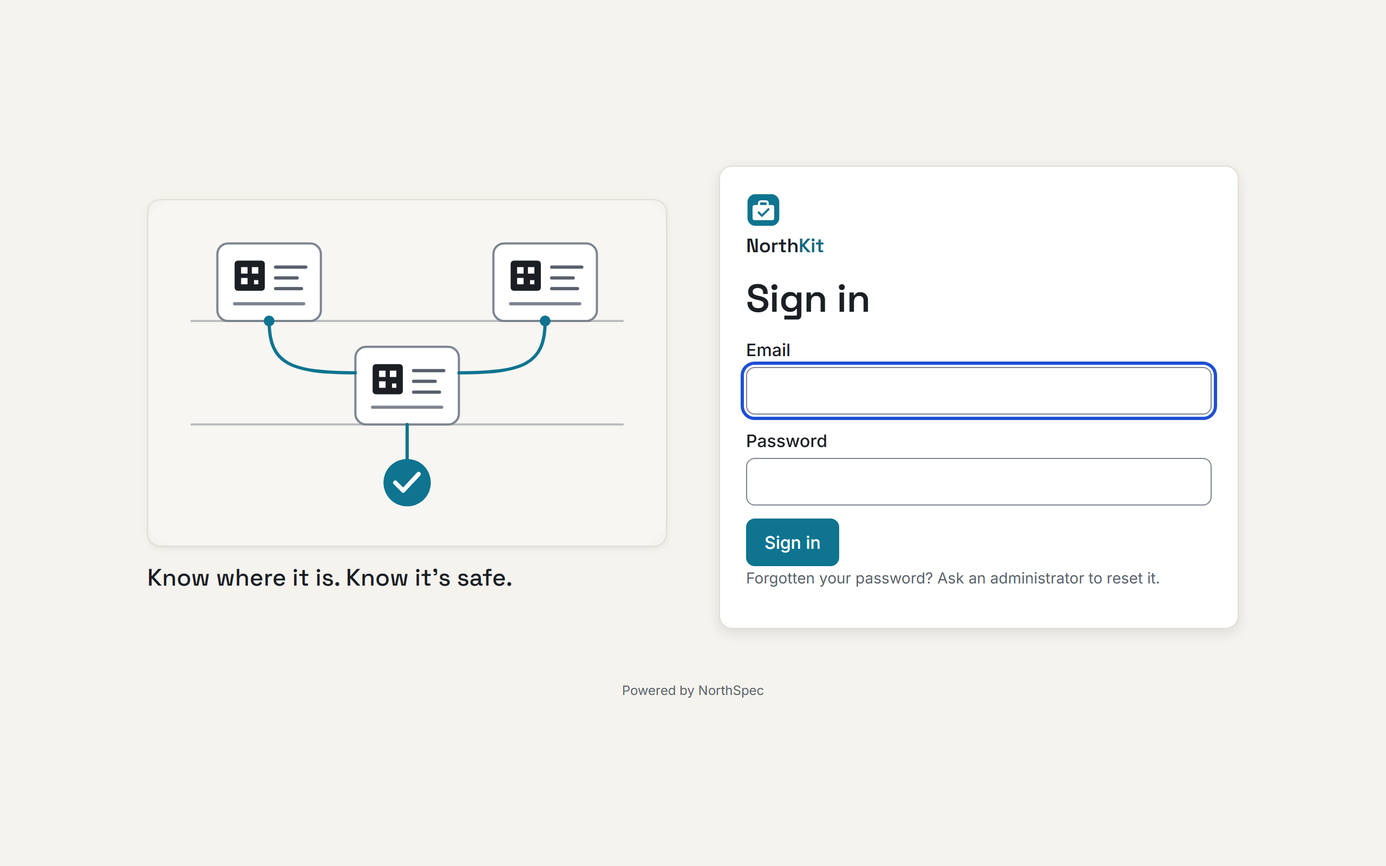
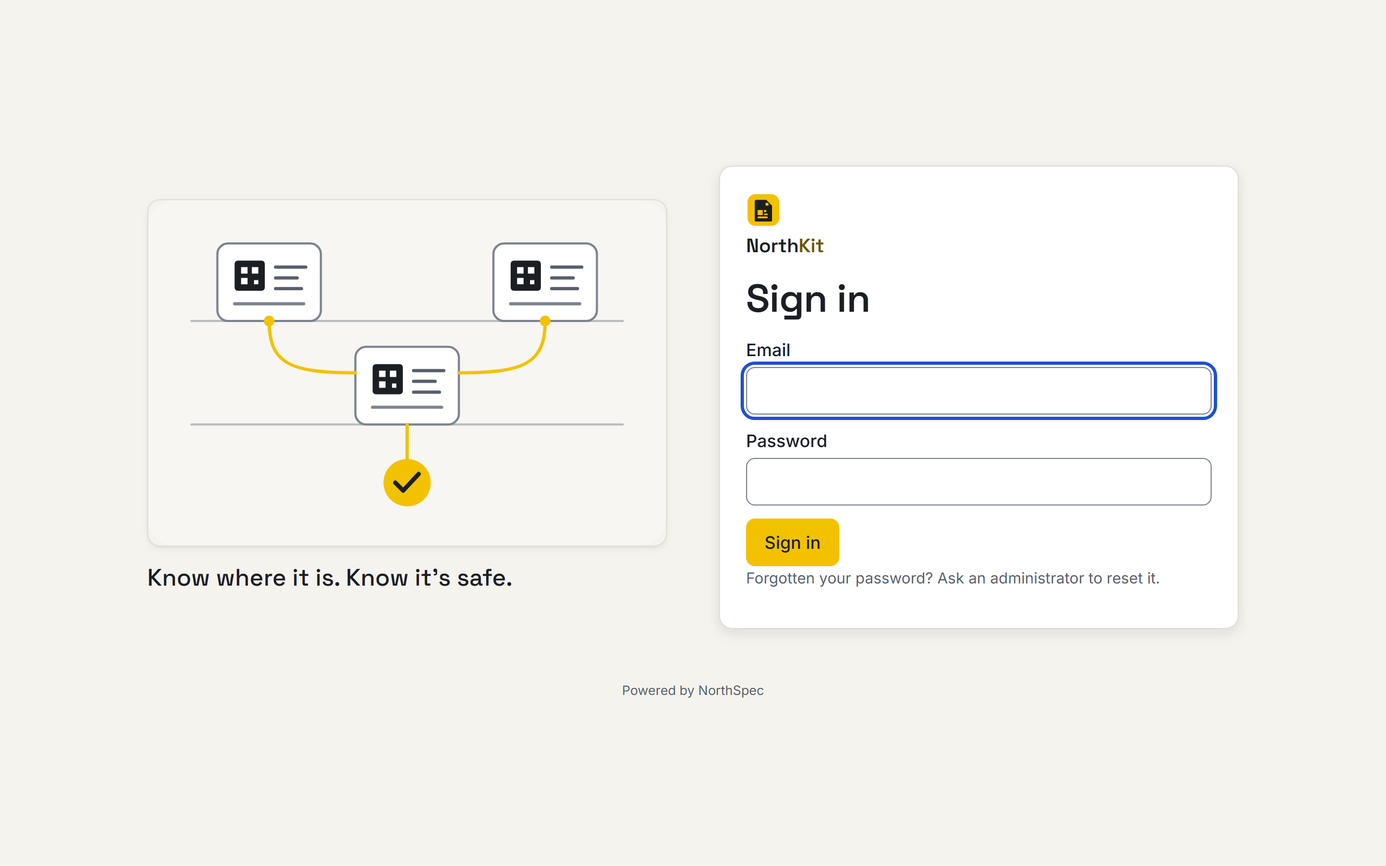
feat: brand release, NorthKit name confirmed, Hi-Vis Yellow accent and QR kit tag mark (K3, K9, K31)
Tokens, mark and icons from BrandCentre; Ink on the accent, Tag Brass as text.
Contrast and axe tests in light and dark; house-style screens retaken.

diff --git a/apps/web/test/contrast.test.ts b/apps/web/test/contrast.test.ts
@@ -1,0 +1,135 @@
+import { readFileSync } from 'node:fs';
+import path from 'node:path';
+import { describe, expect, it } from 'vitest';
+
+// The token contrast checks (WCAG 2.2 AA), run in CI so a change of accent can't ship a
+// pair that fails. It reads src/styles/tokens.css, resolves var() and color-mix(), and
+// checks the accent pairs and every status pair in light and dark. Hi-Vis Yellow is a
+// LIGHT accent, so the pairs that matter are Ink on yellow, Tag Brass as text, and yellow
+// itself against the dark page. The studio's own script (northspec-standards
+// scripts/contrast-check.js) checks the same file and is run by hand.
+
+const css = readFileSync(
+  path.join(import.meta.dirname, '..', 'src', 'styles', 'tokens.css'),
+  'utf8',
+).replace(/\/\*[\s\S]*?\*\//g, '');
+
+function declarations(block: string): Record<string, string> {
+  const out: Record<string, string> = {};
+  for (const m of block.matchAll(/(--[\w-]+)\s*:\s*([^;]+);/g)) out[m[1]!] = m[2]!.trim();
+  return out;
+}
+
+const lightBlock = /^:root\s*\{([\s\S]*?)\n\}/m.exec(css)![1]!;
+const darkBlock = /prefers-color-scheme:\s*dark\)\s*\{\s*:root[^{]*\{([\s\S]*?)\}/.exec(css)![1]!;
+const light = declarations(lightBlock);
+const dark = { ...light, ...declarations(darkBlock) };
+
+type Rgb = [number, number, number];
+
+function colour(value: string, vars: Record<string, string>, depth = 0): Rgb {
+  if (depth > 20) throw new Error(`var loop: ${value}`);
+  const v = value.trim();
+  const ref = /^var\((--[\w-]+)\)$/.exec(v);
+  if (ref) return colour(vars[ref[1]!]!, vars, depth + 1);
+  const hex = /^#([0-9a-f]{3}|[0-9a-f]{6})$/i.exec(v);
+  if (hex) {
+    const h = hex[1]!.length === 3 ? [...hex[1]!].map((c) => c + c).join('') : hex[1]!;
+    return [parseInt(h.slice(0, 2), 16), parseInt(h.slice(2, 4), 16), parseInt(h.slice(4, 6), 16)];
+  }
+  if (v === 'black') return [0, 0, 0];
+  if (v === 'white') return [255, 255, 255];
+  const mix = /^color-mix\(in srgb,\s*(.+?)\s+(\d+(?:\.\d+)?)%,\s*(.+)\)$/.exec(v);
+  if (mix) {
+    const a = colour(mix[1]!, vars, depth + 1);
+    const b = colour(mix[3]!, vars, depth + 1);
+    const p = Number(mix[2]) / 100;
+    return a.map((x, i) => Math.round(x * p + b[i]! * (1 - p))) as Rgb;
+  }
+  throw new Error(`can't read colour: ${value}`);
+}
+
+const channel = (c: number) => {
+  const s = c / 255;
+  return s <= 0.03928 ? s / 12.92 : ((s + 0.055) / 1.055) ** 2.4;
+};
+const luminance = ([r, g, b]: Rgb) =>
+  0.2126 * channel(r) + 0.7152 * channel(g) + 0.0722 * channel(b);
+function ratio(fg: Rgb, bg: Rgb): number {
+  const [hi, lo] = [luminance(fg), luminance(bg)].sort((a, b) => b - a) as [number, number];
+  return (hi + 0.05) / (lo + 0.05);
+}
+
+const check = (theme: Record<string, string>, fg: string, bg: string) =>
+  ratio(colour(fg, theme), colour(bg, theme));
+
+describe('accent pairs (light)', () => {
+  it('puts Ink, never white, on the Hi-Vis Yellow fill', () => {
+    expect(light['--colour-on-accent']).toBe('#1b1f24');
+    expect(check(light, 'var(--colour-on-accent)', 'var(--accent)')).toBeGreaterThanOrEqual(9.5);
+    expect(check(light, 'var(--colour-on-accent)', 'var(--accent-hover)')).toBeGreaterThanOrEqual(
+      4.5,
+    );
+  });
+
+  it('uses Tag Brass for the accent as text, on Paper, white and Tag Cream', () => {
+    for (const bg of ['var(--colour-bg)', 'var(--colour-card)', 'var(--accent-weak)'])
+      expect(check(light, 'var(--accent-text)', bg), bg).toBeGreaterThanOrEqual(4.5);
+  });
+
+  it('does not use the yellow itself as text on a light surface', () => {
+    // It would fail: this documents why --accent-text exists.
+    expect(check(light, 'var(--accent)', 'var(--colour-card)')).toBeLessThan(3);
+  });
+
+  it('keeps the active-nav bar visible on the Ink sidebar', () => {
+    expect(check(light, 'var(--accent-on-dark)', 'var(--sidebar-active)')).toBeGreaterThanOrEqual(
+      3,
+    );
+    expect(check(light, 'var(--accent-on-dark)', 'var(--sidebar-bg)')).toBeGreaterThanOrEqual(3);
+  });
+});
+
+describe('accent pairs (dark)', () => {
+  it('keeps yellow readable as text on the Deep Navy page, cards and tints', () => {
+    for (const bg of ['var(--colour-bg)', 'var(--colour-card)', 'var(--accent-weak)'])
+      expect(check(dark, 'var(--accent-text)', bg), bg).toBeGreaterThanOrEqual(4.5);
+  });
+
+  it('still puts Ink on the yellow fill', () => {
+    expect(check(dark, 'var(--colour-on-accent)', 'var(--accent)')).toBeGreaterThanOrEqual(9.5);
+  });
+});
+
+describe('text and statuses', () => {
+  for (const [name, theme] of [
+    ['light', light],
+    ['dark', dark],
+  ] as const) {
+    it(`meets AA for text on the page, cards and surfaces in ${name}`, () => {
+      for (const bg of ['var(--colour-bg)', 'var(--colour-card)', 'var(--colour-surface)']) {
+        expect(check(theme, 'var(--colour-text)', bg), `text on ${bg}`).toBeGreaterThanOrEqual(4.5);
+        expect(
+          check(theme, 'var(--colour-text-muted)', bg),
+          `muted on ${bg}`,
+        ).toBeGreaterThanOrEqual(4.5);
+      }
+    });
+
+    it(`meets AA for every status pill in ${name}`, () => {
+      const pairs = Object.keys(theme)
+        .filter((k) => /^--status-.+-text$/.test(k))
+        .map((k) => [k, k.replace(/-text$/, '-bg')] as const);
+      expect(pairs.length).toBeGreaterThanOrEqual(6);
+      for (const [fg, bg] of pairs)
+        expect(check(theme, `var(${fg})`, `var(${bg})`), `${fg} on ${bg}`).toBeGreaterThanOrEqual(
+          4.5,
+        );
+    });
+
+    it(`meets AA for the success, warning, danger and info messages in ${name}`, () => {
+      for (const m of ['--colour-success', '--colour-warning', '--colour-danger', '--colour-info'])
+        expect(check(theme, `var(${m})`, 'var(--colour-card)'), m).toBeGreaterThanOrEqual(4.5);
+    });
+  }
+});

diff --git a/apps/web/src/styles/tokens.css b/apps/web/src/styles/tokens.css
@@ -1,7 +1,7 @@
 /* NorthSpec design tokens: the single source of colour, type, radius and spacing.
    Token names and shared values follow the family house style as NorthSlot uses it
    (northspec-standards brand/tokens/tokens.css; S7-11, Chris, 15 Nov 2026). NorthKit
-   overrides only its accent family (Kit Teal, Teal Mist, Kit Teal Light) and adds its own
+   overrides only its accent family (Hi-Vis Yellow, Tag Brass, Tag Cream) and adds its own
    status set. Never hard-code a colour, size or spacing value in app.css that isn't one
    of these. */
 
@@ -13,15 +13,17 @@
   --northspec-paper: #f5f3ee; /* Paper: the page */
   --northspec-navy: #18224a; /* Deep Navy: the page in dark mode */
 
-  /* ---- Product accent: NorthKit (brand/tokens/accent.css) ---- */
-  --accent: #0e7490; /* Kit Teal, 5.4:1 on white */
+  /* ---- Product accent: NorthKit, from BrandCentre northkit/tokens/accent.css ----
+     Hi-Vis Yellow is a LIGHT accent: text and icons on it are Ink, never white. Anything
+     that sits on an --accent fill must use --colour-on-accent. Never use the accent itself
+     as text on Paper or white: that is --accent-text (Tag Brass). */
+  --accent: #f2c200; /* Hi-Vis Yellow: buttons, active nav, mark */
   --accent-hover: color-mix(in srgb, var(--accent) 85%, black);
-  --accent-weak: #e3f2f6; /* Teal Mist: selected rows, chips, the current filter */
-  --accent-light: #7fd0e3; /* Kit Teal Light: marks on the Ink sidebar and in dark mode */
-  --colour-on-accent: #ffffff; /* text and icons on an --accent fill (primary buttons) */
-  /* Accent used AS text: a touch darker, so it keeps 4.5:1 on Teal Mist (6.9:1). */
-  --accent-text: color-mix(in srgb, var(--accent) 90%, black);
-  /* The active-nav bar on the Ink sidebar: Kit Teal Light keeps 3:1 on --sidebar-active. */
+  --accent-weak: #fdf3c4; /* Tag Cream: selected rows, chips, the current filter */
+  --accent-light: #f2c200; /* dark mode and the Ink sidebar: 9.14:1 on Deep Navy */
+  --colour-on-accent: #1b1f24; /* Ink on yellow, 9.85:1 */
+  --accent-text: #6b5600; /* Tag Brass: the accent as text, 6.41:1 on Paper */
+  /* The active-nav bar on the Ink sidebar. */
   --accent-on-dark: var(--accent-light);
 
   /* The accent is for primary buttons, the active nav item and selected things only.
@@ -135,8 +137,8 @@
     --colour-text-muted: #b4bcd0;
     --colour-skeleton: #2c3870;
     --colour-focus: #9db7ff;
-    --accent-weak: color-mix(in srgb, var(--accent) 35%, #18224a);
-    /* Kit Teal Light as text on navy keeps 4.5:1. */
+    --accent-weak: color-mix(in srgb, var(--accent) 20%, #18224a);
+    /* Hi-Vis Yellow as text on navy keeps 4.5:1 (9.14:1). */
     --accent-text: var(--accent-light);
     --sidebar-bg: #10173a;
     --sidebar-muted: #a7b0c8;

diff --git a/apps/web/e2e/themes.spec.ts b/apps/web/e2e/themes.spec.ts
@@ -1,0 +1,54 @@
+import { expect, test } from '@playwright/test';
+import { expectAccessible, expectNoSideways, ready } from './helpers';
+
+// The brand release (K9, K31): Hi-Vis Yellow is a light accent with Ink text on it. Axe
+// (WCAG 2.2 AA, including colour contrast) runs on the main screens in BOTH colour schemes
+// at both sizes, and the primary button really is Ink on yellow.
+
+for (const scheme of ['light', 'dark'] as const) {
+  test(`the main screens pass axe in ${scheme} mode`, async ({ page }) => {
+    await page.emulateMedia({ colorScheme: scheme });
+    for (const path of [
+      '/',
+      '/items',
+      '/items/new',
+      '/kinds',
+      '/import',
+      '/sites',
+      '/users',
+      '/settings',
+    ]) {
+      await page.goto(path);
+      await expect(page.getByRole('heading', { level: 1 })).toBeVisible();
+      await ready(page);
+      await expectNoSideways(page);
+      await expectAccessible(page);
+    }
+  });
+}
+
+test('the primary button is Ink on Hi-Vis Yellow, never white', async ({ page }) => {
+  await page.emulateMedia({ colorScheme: 'light' });
+  await page.goto('/items');
+  const button = page.getByRole('link', { name: 'Add an item' });
+  const style = await button.evaluate((el) => {
+    const s = getComputedStyle(el);
+    return { color: s.color, background: s.backgroundColor };
+  });
+  expect(style).toEqual({ color: 'rgb(27, 31, 36)', background: 'rgb(242, 194, 0)' });
+});
+
+test('the sign-in page and the scan page pass axe in dark mode', async ({ browser }) => {
+  const context = await browser.newContext({
+    storageState: { cookies: [], origins: [] },
+    colorScheme: 'dark',
+  });
+  const page = await context.newPage();
+  await page.goto('/login');
+  await ready(page);
+  await expectAccessible(page);
+  await page.goto('/i/not-a-real-label');
+  await expect(page.getByRole('heading', { level: 1 })).toHaveText('Label not recognised');
+  await expectAccessible(page);
+  await context.close();
+});

diff --git a/apps/web/src/app/manifest.ts b/apps/web/src/app/manifest.ts
@@ -3,7 +3,7 @@ import { PRODUCT_NAME } from '@northkit/core';
 
 // Installable on phones as a PWA (the offline inspection runner arrives in Sprint 3).
 // A manifest can't read CSS variables: the colours mirror --colour-bg and --accent in
-// src/styles/tokens.css (Kit Teal). Icons are copied from brand/png (BrandCentre).
+// src/styles/tokens.css (Hi-Vis Yellow). The icons are made from the BrandCentre mark (northkit/logo).
 export default function manifest(): MetadataRoute.Manifest {
   return {
     name: PRODUCT_NAME,
@@ -13,7 +13,7 @@ export default function manifest(): MetadataRoute.Manifest {
     display: 'standalone',
     orientation: 'portrait',
     background_color: '#F5F3EE',
-    theme_color: '#0e7490',
+    theme_color: '#f2c200',
     icons: [
       { src: '/icon.svg', sizes: 'any', type: 'image/svg+xml', purpose: 'any' },
       { src: '/icon-192.png', sizes: '192x192', type: 'image/png', purpose: 'any' },

diff --git a/apps/web/src/components/product-mark.tsx b/apps/web/src/components/product-mark.tsx
@@ -1,9 +1,9 @@
 /**
  * The identity (house style, as NorthSlot): the NorthKit mark and wordmark ("North" then
- * "Kit" in Kit Teal, Kit Teal Light on the Ink sidebar), with the customer's organisation
+ * "Kit" in Tag Brass, Hi-Vis Yellow on the Ink sidebar), with the customer's organisation
  * name under it once set-up names it. The mark is decorative: the text beside it says what
- * it is. A plain <img>: an SVG gains nothing from next/image. The mark, wordmark and accent
- * are placeholders until BrandCentre chooses them (name check first).
+ * it is. A plain <img>: an SVG gains nothing from next/image. The mark is the BrandCentre
+ * QR kit tag (northkit/logo), and the colours come from the accent tokens.
  */
 export function ProductMark({ organisation }: { organisation?: string | null }) {
   return (

diff --git a/packages/core/src/dev/demo-photos.ts b/packages/core/src/dev/demo-photos.ts
@@ -2,7 +2,7 @@ import { createHash } from 'node:crypto';
 import { PNG } from 'pngjs';
 
 // Placeholder photos for the demo company (S2-6): drawn here in the style of the sign-in
-// picture (a tagged item card on a plain ground, in ink, slate and a teal accent), so the
+// picture (a tagged item card on a plain ground, in ink, slate and Hi-Vis Yellow), so the
 // demo has no stock photos and nothing that looks like a real person, site or product. The
 // same tag always gives the same picture. Demo only: customers upload their own photos.
 
@@ -16,7 +16,7 @@ const SLATE: Rgb = [87, 95, 107];
 const EDGE: Rgb = [200, 196, 186];
 
 const KIND_BAND: Record<string, Rgb> = {
-  ladder: [14, 116, 144],
+  ladder: [242, 194, 0],
   plant: [180, 83, 9],
   power_tool: [59, 91, 219],
   harness: [134, 49, 138],

diff --git a/apps/web/src/styles/app.css b/apps/web/src/styles/app.css
@@ -176,7 +176,7 @@ a:hover {
   background: var(--sidebar-active);
   color: var(--sidebar-text);
 }
-/* The current page: weight, a fill and a Kit Teal Light bar, so the bar is never the
+/* The current page: weight, a fill and a Hi-Vis Yellow bar, so the bar is never the
    only cue (and aria-current for screen readers). */
 .sidebar .nav-list a[aria-current='page'] {
   background: var(--sidebar-active);
@@ -2369,7 +2369,7 @@ a.mx-cell:focus-visible {
   }
 }
 
-/* Selected rows and the current choice: Teal Mist, with a teal bar as a second cue. */
+/* Selected rows and the current choice: Tag Cream, with a yellow bar as a second cue. */
 .table tr[aria-current='true'] td,
 .table tr[aria-selected='true'] td {
   background: var(--accent-weak);

diff --git a/docs/01-status-and-gates.md b/docs/01-status-and-gates.md
@@ -10,14 +10,15 @@ Format as NorthKeep's D-numbers. "Proposed (built), Chris to confirm" means it i
 | --- | --- | --- | --- |
 | K1 | Build the idea | Build ahead of validation | **Approved** (Chris, 17 Nov 2026): product five, banner Construction & Trades (also fits Facilities & Compliance) |
 | K2 | Route and stack | Route A, same stack as NorthKeep (ADR 0001) | **Approved** (Chris, 17 Nov 2026) |
-| K3 | Name | NorthKit is a working name | **Working name.** UK IPO (classes 9 and 42), Companies House and domain checks before anything public; no website page until Chris confirms |
+| K3 | Name | NorthKit is the product name | **Confirmed** (Chris, 17 Nov 2026): UK IPO (classes 9 and 42) and Companies House clear (nearest: NORTH IT, NORTHTEK, NORTH KITCHEN LTD). The domain northkit.co.uk is available at GoDaddy and **not bought yet** (Chris's action). No website page until Chris says |
 | K4 | Foundation source | Copy from NorthKeep `main`, record the commit (ADR 0002) | **Done:** `944121d`; NorthKeep's unmerged `sprint-8/release` was not used |
 | K5 | The boundary | NorthKit records inspections and certificates; it never performs, certifies or signs off a statutory examination (ADR 0003) | **Approved** (Chris, 17 Nov 2026, in the brief) |
 | K6 | Version 1 scope | As the brief: items and kinds, labels, check-out and in, safe to use with quarantine, imports and exports, dashboard and reports, offline; out: GPS and Bluetooth trackers, hire-out invoicing, purchase orders, depreciation | **Approved** (Chris, 17 Nov 2026) |
 | K7 | Licence | Per-product Ed25519 key pair, 30-day trial then read-only (ADR 0005). The key list is empty until Chris makes the pair | **Approved** (Chris, 17 Nov 2026, standard 09). **Action for Chris:** make the key pair before the first release candidate |
 | K8 | Gate 1 (three buyer conversations, one written commitment) | Optional; Chris may lift it as for ClearRate | **Open.** Not a blocker. Guide: `docs/research/buyer-guide.md` |
-| K9 | Accent colour | Kit Teal `#0E7490`, a **placeholder** that avoids Core Blue, Dock Amber, Rate Green and Keep Plum. Mark, wordmark and sign-in picture are also placeholders | **Approved as placeholders** (Chris, 17 Nov 2026), **except the accent: Kit Teal is too close to Rate Green `#157A55`** (the reason NorthSlot moved to Dock Amber). Kept as a placeholder, **to be replaced from BrandCentre** |
-| K10 | Sign-in tagline | "Know where it is. Know it's safe." (placeholder) | **Approved** (Chris, 17 Nov 2026) |
+| K9 | Accent colour and mark | Hi-Vis Yellow `#F2C200` with the QR kit tag mark, from BrandCentre `northkit/`. A **light** accent: Ink text on it (9.85:1), never white; Tag Brass `#6B5600` for the accent as text, Tag Cream `#FDF3C4` for tints, yellow stays the same in dark mode (9.14:1 on Deep Navy) | **Approved** (Chris, 18 Nov 2026), replacing Kit Teal, which was too close to Rate Green. Tokens copied from `BrandCentre
+orthkit	okensaccent.css`; icons made from the mark; the illustrations follow the tokens |
+| K10 | Sign-in tagline | "Know where it is. Know it's safe." | **Approved** (Chris, 17 Nov 2026); also the tagline in the BrandCentre guide |
 | K11 | Roles and permission areas | Administrator, Kit Manager, Supervisor, Operative (check out and in and pre-use checks only), Viewer; areas overview, locations, items, check-outs, inspections, imports, reports, users, settings × View, Create, Edit, Approve | **Approved** (Chris, 17 Nov 2026) |
 | K12 | Depots and locations | A "site" is a depot; locations are site (job site), van, store, yard, nestable, with an optional reference (a registration or job number). Depots are managed by people with Settings access | **Approved** (Chris, 17 Nov 2026) |
 | K13 | Reporting login | `northkit_readonly` reads the `reporting` views only, from the first migration (NorthKeep got there in its Sprint 7) | **Approved** (Chris, 17 Nov 2026) |
@@ -38,6 +39,7 @@ Format as NorthKeep's D-numbers. "Proposed (built), Chris to confirm" means it i
 | K28 | Illustrations | The pack (sign-in, empty register, no results, all clear, error) is drawn **inline in SVG using only design tokens**, not as light and dark files, so dark mode and a new accent follow the tokens with nothing to redraw. A test fails on any hard-coded colour outside `tokens.css` (the browser theme colour and the manifest are listed exceptions) | **Proposed (built), Chris to confirm** |
 | K29 | Kind rules: what the defaults say | Each kind ships with editable rules, each with a note saying who should confirm it. LOLER 6 months for lifting gear (12 for other kit, marked not required unless it applies), ladders and access equipment 6 months (HSE sets no period: said so), harness 6 months **as industry practice, not an HSE rule**, PAT 12 months marked risk-based, calibration 12 months. Every screen shows the notice "your own schedule settings, not legal advice" | **Proposed (built), Chris to confirm** |
 | K30 | Side-by-side check with NorthSlot | NorthKit's screens at both sizes and themes are in `docs/screens/house-style-check/`, with NorthSlot's public sign-in. NorthSlot's signed-in screens need a login that Claude doesn't have; **Chris runs `house-style-check.mjs` once with his own** (`docs/screens/README.md`) | **Open: Chris to run it** |
+| K31 | Brand release | `chore/brand-and-name`: the BrandCentre tokens, mark, app icon, favicons and PNG icons (192, 512, maskable, apple-touch, 32) replace the placeholders; "working name" is gone from the repo; the demo photos and every illustration follow the tokens. Token contrast checked with the standards script (exit 0) and a test; axe passes at both sizes in light and dark | **Proposed (built), Chris to confirm** |
 
 ## Gates
 

diff --git a/CLAUDE.md b/CLAUDE.md
@@ -1,6 +1,6 @@
 # CLAUDE.md — instructions for Claude Code in this repo
 
-You are the lead developer for NorthKit (working name), a self-hosted plant, tool and equipment register for contractors, maintenance firms, plant hire depots and manufacturers: where each item is, who has it, and whether it is safe and in date to use. Chris Ramsden owns NorthSpec and approves every merge.
+You are the lead developer for NorthKit, a self-hosted plant, tool and equipment register for contractors, maintenance firms, plant hire depots and manufacturers: where each item is, who has it, and whether it is safe and in date to use. Chris Ramsden owns NorthSpec and approves every merge.
 
 ## Build status
 **Approved to build (Chris, 17 Nov 2026), ahead of validation**, as with NorthKeep and ClearRate. Gate 0 passed; decisions K1 onwards are recorded in `docs/01-status-and-gates.md`. Sprint 0 (research, `prompts/sprint-0.md`) and Sprint 1 (foundation, `prompts/sprint-1.md`) come first; Sprints 2 to 6 are in `prompts/roadmap.md`. Gate 1 (buyer conversations) is optional and not a blocker.
@@ -24,9 +24,9 @@ You are the lead developer for NorthKit (working name), a self-hosted plant, too
 - **Database.** DB-01 to DB-16 (`docs/03-database-requirements.md`): one Postgres schema per module, snake_case plural tables, UUIDv7 ids, standard columns, constraints in the database, `COMMENT` on every table and column, forward-only SQL migrations.
 - **Security.** Argon2id passwords, TOTP MFA (required for Administrators), parameterised queries only, secrets from env vars only, no secrets in logs, no passwords, tokens or keys in the repo, docs or chat. OWASP ASVS L1. Public endpoints (the no-login "report a fault" scan page, from Sprint 5) are signed, rate-limited and logged.
 - **Dependencies.** MIT, MIT-0, Apache-2.0, BSD, ISC, PostgreSQL, 0BSD or Zlib; the same conditional exceptions as NorthKeep (CC-BY-4.0 data only, MPL-2.0 and BlueOak build tools only, OFL-1.1 font files only). No GPL/AGPL/LGPL in shipped code; MinIO and sharp stay out. Record each in `docs/dependencies.md`.
-- **UI.** The NorthSpec visual standard (`C:\Northspec\repos\northspec-visual-standard.md`): hand-written CSS on NorthSpec tokens, NorthSlot is the reference (Ink sidebar on the left, Paper pages, white cards, 4 KPI cards, a wide table beside a "needs action" panel). The product accent is **Kit Teal `#0E7490`, a placeholder** until BrandCentre chooses one; it must not clash with Core Blue, Dock Amber, Rate Green or Keep Plum. Inter for everything you read; Space Grotesk for page titles, the wordmark and big figures. Status never shown by colour alone (the shared status pill: colour plus word). WCAG 2.2 AA; phone screens usable at 390 × 844 with gloves-friendly 44 px targets. UK spelling, plain words.
+- **UI.** The NorthSpec visual standard (`C:\Northspec\repos\northspec-visual-standard.md`): hand-written CSS on NorthSpec tokens, NorthSlot is the reference (Ink sidebar on the left, Paper pages, white cards, 4 KPI cards, a wide table beside a "needs action" panel). The product accent is **Hi-Vis Yellow `#F2C200`, a LIGHT accent: text and icons on it are Ink (`--colour-on-accent`), never white**; use Tag Brass (`--accent-text`) for the accent as text, never the yellow itself on Paper or white. The tokens come from BrandCentre `northkit/tokens/accent.css`; every colour goes through them (a test fails on any hard-coded colour). Inter for everything you read; Space Grotesk for page titles, the wordmark and big figures. Status never shown by colour alone (the shared status pill: colour plus word). WCAG 2.2 AA; phone screens usable at 390 × 844 with gloves-friendly 44 px targets. UK spelling, plain words.
 - **Units and time.** `timestamptz` UTC; due dates and reminders in the depot's time zone; UK English and UK date formats in the UI.
-- **Name.** "NorthKit" is a working name. Do a UK IPO (classes 9 and 42), Companies House and domain check before anything public; the website page waits until Chris confirms the name.
+- **Name.** NorthKit is the product name (UK IPO and Companies House clear, Chris, 17 Nov 2026). The domain northkit.co.uk is not bought yet; the website page waits for Chris.
 
 ## Working method
 - Branch `sprint-N/<topic>`, small commits with conventional messages (`feat:`, `fix:`, `chore:`, `docs:`, `test:`).

diff --git a/CHANGELOG.md b/CHANGELOG.md
@@ -2,6 +2,13 @@
 
 ## Unreleased
 
+### Brand release (branch `chore/brand-and-name`)
+- **Name (K3):** NorthKit confirmed as the product name (UK IPO and Companies House clear, 17 Nov 2026); "working name" removed from the README, CLAUDE.md, credits and docs. northkit.co.uk is not bought yet.
+- **Accent (K9):** Hi-Vis Yellow `#F2C200` with Ink text on it (never white) and Tag Brass for the accent as text, copied from BrandCentre `northkit/tokens/accent.css`. In dark, the accent tint is 20% so Tag Brass text keeps 4.5:1. App icon, favicons, PNG and maskable icons, manifest theme colour, the QR kit tag mark and the demo ladder photo band regenerated from BrandCentre.
+- **Tests:** `apps/web/test/contrast.test.ts` (WCAG AA for the accent, text and every status pair in light and dark, read from `tokens.css`) and `apps/web/e2e/themes.spec.ts` (axe in light and dark on eight screens at both sizes, button colours checked). The studio `contrast-check.js` also passes.
+- **Screens:** `docs/screens/house-style-check/` retaken for NorthKit. NorthSlot's signed-in screens are unchanged (not reachable from this machine; K30).
+- **Decision:** K31 brand release, Proposed (built), Chris to confirm.
+
 ### Sprint 2: items, kinds, labels, photos, import (branch `sprint-2/items`)
 - **Kinds and rules (S2-1):** eight starter kinds with editable inspection rules (type, interval, required, a note) taken from `docs/research/compliance-sources.md`; every screen says they are your own schedule settings, not legal advice. A kind in use can't be deleted (the database refuses); deactivate instead.
 - **Item register (S2-2):** items with kind, asset number (typed or generated per kind prefix), serial, make, model, purchase date and exact-pence cost, owned or hired in, home depot and location, status, notes. Kit sets one level deep. Status transitions, kits, hire details and retire reasons are enforced in the database. List with search, filters (kind, depot, status, owned or hired in, kits) and paging; CSV of the filtered list; history from the audit log; retire with a reason.
@@ -20,7 +27,7 @@
 - Roles Administrator, Kit Manager, Supervisor, Operative, Viewer; nine permission areas; per-depot scoping with row-level security and an isolation test for every site-owned table.
 - Audit log with filters and CSV export; settings table with reminder days, default days out and the timeout warning.
 - Offline licence module with NorthKit's own (empty) public key list; the demo company generator and `pnpm db:seed-demo`.
-- App shell in the NorthSpec house style with an overview. Placeholder accent Kit Teal, mark, icons and sign-in picture.
+- App shell in the NorthSpec house style with an overview. Placeholder accent, mark, icons and sign-in picture (replaced in the brand release).
 - The reporting login reads views only.
 
 ### Sprint 0: documents and research

diff --git a/docs/dependencies.md b/docs/dependencies.md
@@ -2,7 +2,7 @@
 
 Every direct dependency, its licence and why it is here. Copied from NorthKeep main (commit `944121d`, ADR 0002) and trimmed to what NorthKit uses today. Allowed: MIT, MIT-0, Apache-2.0, BSD-2/3-Clause, ISC, PostgreSQL, 0BSD, Zlib (CLAUDE.md), plus the same conditional licences as NorthKeep and NorthCore WMS (below). `pnpm licences:check` checks every installed package, direct and indirect, in CI. Anything else must be listed in [`scripts/licence-exceptions.json`](../scripts/licence-exceptions.json) with a reason and Chris's approval (currently empty). Credits ship with the product in [`LICENCES/CREDITS.md`](../LICENCES/CREDITS.md).
 
-Fonts, icons and images: the mark, app icons (rounded and maskable), favicon and sign-in picture in `apps/web/public/` are **original placeholders** made for NorthKit (nothing copied from NorthKeep's artwork) until BrandCentre chooses the real ones. **Inter** is self-hosted from `@fontsource/inter` (SIL OFL 1.1, font files only): served from the customer's server, never fetched from a font service. **Space Grotesk** is self-hosted from `@fontsource/space-grotesk` (SIL OFL 1.1, font files only) for page titles, the wordmark and big figures, as in NorthSlot; Inter is used for everything else you read.
+Fonts, icons and images: the mark, app icons (rounded and maskable), favicon and apple-touch icon in `apps/web/public/` are made from the BrandCentre mark (`northkit/logo`); the sign-in picture and the other illustrations are original SVG drawn inline in the design tokens (`components/illustration.tsx`). **Inter** is self-hosted from `@fontsource/inter` (SIL OFL 1.1, font files only): served from the customer's server, never fetched from a font service. **Space Grotesk** is self-hosted from `@fontsource/space-grotesk` (SIL OFL 1.1, font files only) for page titles, the wordmark and big figures, as in NorthSlot; Inter is used for everything else you read.
 
 ## Shipped with the product (runtime)
 

diff --git a/README.md b/README.md
@@ -1,8 +1,8 @@
 # NorthKit
 
-**Know where it is. Know it's safe.** (working tagline) A self-hosted register of plant, tools and equipment for contractors, maintenance firms, plant hire depots and manufacturers: every item labelled with a QR code, checked out to a person, van or site in two taps, inspections scheduled and recorded, defective kit quarantined so it can't be issued, and certificates kept against the item.
+**Know where it is. Know it's safe.** A self-hosted register of plant, tools and equipment for contractors, maintenance firms, plant hire depots and manufacturers: every item labelled with a QR code, checked out to a person, van or site in two taps, inspections scheduled and recorded, defective kit quarantined so it can't be issued, and certificates kept against the item.
 
-A NorthSpec product (working name; banner Construction & Trades). Route A: the customer installs it on their own server; NorthSpec never hosts it, never sees the data, and the product never contacts NorthSpec.
+A NorthSpec product (banner Construction & Trades). Route A: the customer installs it on their own server; NorthSpec never hosts it, never sees the data, and the product never contacts NorthSpec.
 
 **What NorthKit is not:** it records inspections and certificates. It never performs, certifies or signs off a statutory examination: a thorough examination under LOLER is done by a competent person, and NorthKit stores their report and the due date. You remain responsible for having examinations done by a competent person.
 
